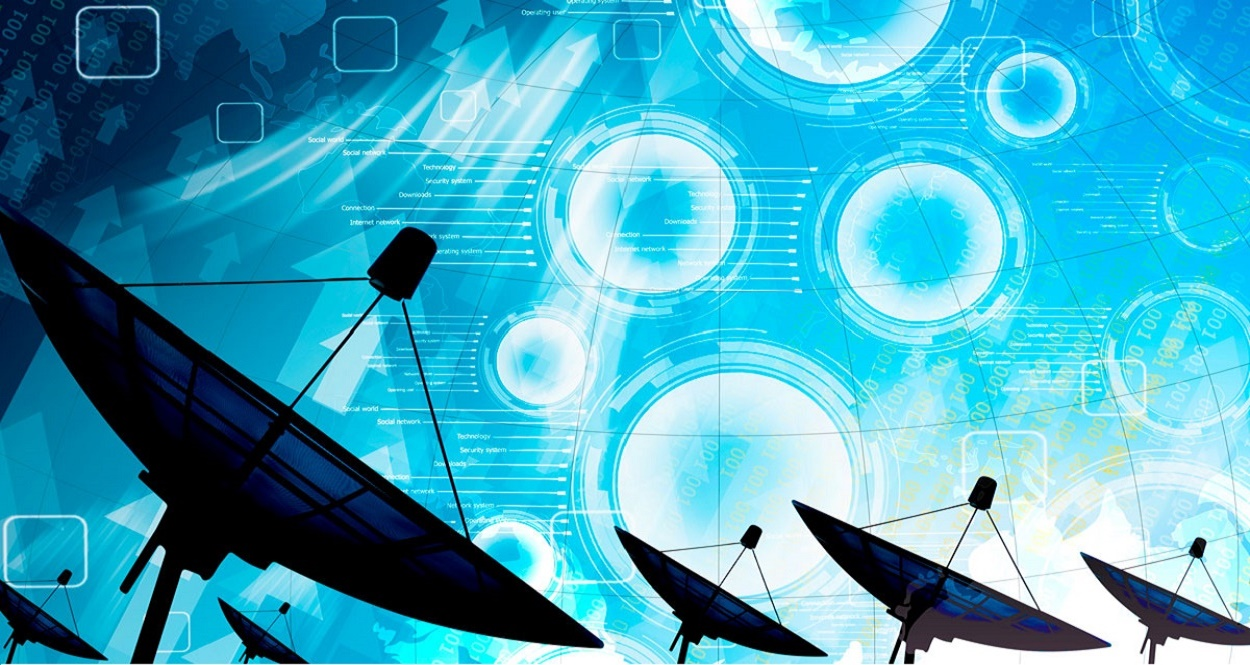
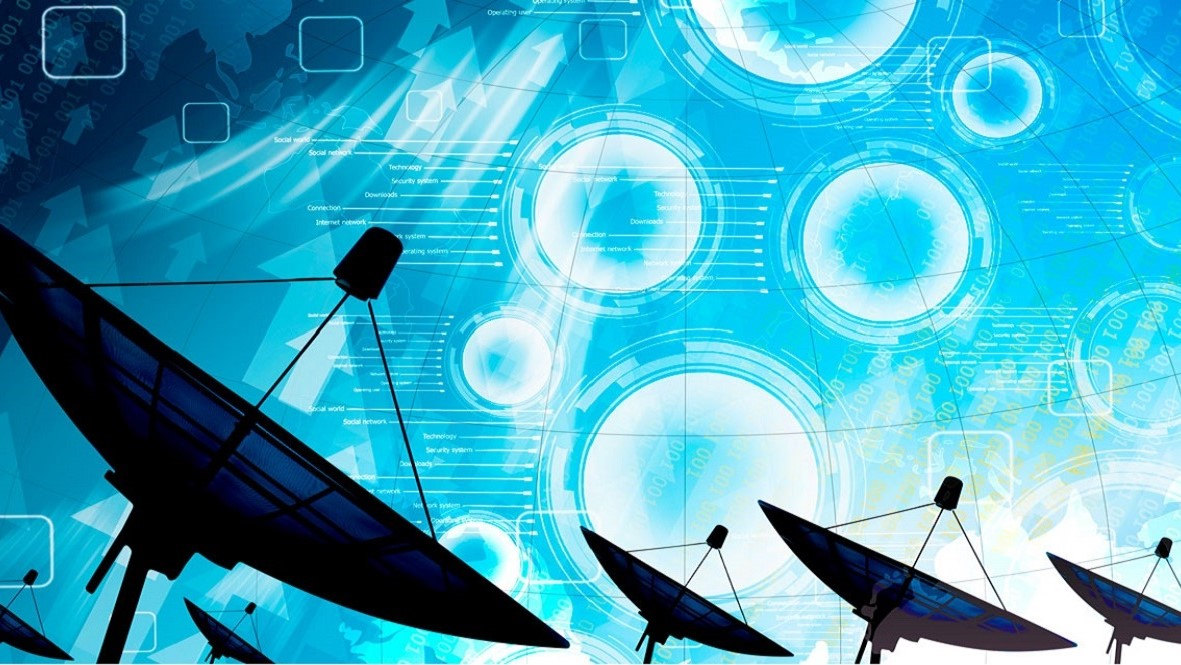
working on html, css

diff --git a/index.html b/index.html
@@ -1,26 +1,26 @@
-<?php
-    include_once "db_login.php"; 
+ <!-- ?php
+    // include_once "db_login.php"; 
 
-    if (!$con)   /*  check if the connection was actually successful  */
-    {
-        exit("Could not connect to the database: <br/>" . 
-            htmlspecialchars(mysql_error()) );
-    }
-    else{
-		echo "connected";
-	}
+    // if (!$con)   /*  check if the connection was actually successful  */
+    // {
+    //     exit("Could not connect to the database: <br/>" . 
+    //         htmlspecialchars(mysql_error()) );
+    // }
+    // else{
+	// 	echo "connected";
+	// }
 
- ?>
+?> // -->
 <!DOCTYPE html>
 <html>
 <head>
   <title>Cloud9/homepage</title>
-  <link rel="Stylesheet" href="css\style.css">
+  <link rel="Stylesheet" href="css/style.css">
   <link href="https://fonts.googleapis.com/css?family=Cinzel+Decorative:700|Cinzel:700|Oswald" rel="stylesheet">
   <link href="https://fonts.googleapis.com/css?family=Crimson+Text|Fira+Sans|PT+Sans+Narrow|Roboto+Condensed" rel="stylesheet">
   <meta name="viewport" content="width=device-width, initial-scale=1">
   <link href="https://fonts.googleapis.com/css?family=Pragati+Narrow" rel="stylesheet">
-  <meta charset=="utf-8">
+  <meta charset="utf-8">
   <script src='https://code.jquery.com/jquery-1.12.0.min.js'></script>
   <script src="https://code.jquery.com/ui/1.12.1/jquery-ui.min.js" integrity="sha256-VazP97ZCwtekAsvgPBSUwPFKdrwD3unUfSGVYrahUqU="crossorigin="anonymous"></script>
   <script src="js/jquery.fullpage.js"></script>
@@ -30,18 +30,17 @@
 	<div id='fullpage'>
 		<div class="slideshow-container">
 			<div class="mySlides fade" id="image1">
-		    	<img class='SlideImage'  src="css/images/telecom6.jpg">
+				<img class='SlideImage'  src="css/images/telecom6.jpg" style="width:100%; height:100%">
 		    </div>
 		    <div class="mySlides fade" id="image2">
-		    	<img class='SlideImage'  src="css/images/telecom21.jpg">
+		    	<img class='SlideImage'  src="css/images/telecom21.jpg" style="width:100%; height:100%">
 		  	</div>
 		  	<div class="mySlides fade" id="image3">
-		    	<img class='SlideImage'  src="css/images/telecom4.jpg">
+		    	<img class='SlideImage'  src="css/images/telecom4.jpg" style="width:100%; height:100%">
 		    </div>
 		</div>
 		<div class="main">
-			<!-- <div class="header"></div> -->
-			<div id="login"><a href="login.php" id="login1">Login</a></div>
+			<div id="login"><a href="" id="login1">Login</a></div>
 			<div class="logoContainer"></div>
 			<div class="heading">CLOUD 9</div>
 			<div class="subHeading">BEST IN THE BUSINESS</div>
@@ -92,7 +91,7 @@
 			    </div>
 			</div>
 
-			<div class="content" id="content"> 
+			<div class="content" id="content1"> 
 		  		<div id="content_home">  
 
 		    		<h3>Cloud 9</h3>
@@ -101,11 +100,14 @@
 			</div>
 
 			<div class="content" id="content_ceo">
-				<div id="ceo_pic"></div>
-				<div id="ceo_description">
+				<div class="ceo_des" id="des1" ></div>
+				<div class="ceo_des" id="des2"></div>
+				<div class="ceo_des" id="des3"></div>
+				
+				<!-- <div id="ceo_description">
 					<h5>CEO/PRESIDENT'S PROFILE</h5>
 					<p>Diversified Experience over 28 years in Army with different Capacity of various level of Administration and Human Resource Management, Operations and Business Development Management as Strategy Planner, Policy maker & Policy Implementation Monitor. Graduated from Bangladesh Military Academy in 1985 and was commissioned in Bangladesh Army as lieutenant in the Core of Signals. Later on conceived 12 month basic training from the Schools of Signals on Modern Communication. Attained various courses and training pertaining to the administration, operation and logistic with practical exercises. With the inclusion of Computer in Bangladesh Army upgraded himself with the computer course in Bangladesh Army. Participated in the various National Crisis and Management with different capacities and received distinguished appreciations both from Civil and military authorities. Served in Bangladesh Rifles from 1991 to 1994 Experienced the Risk Management, Financial Management, Security Management, Management of local Government issues and Trans Border Issues. Attained the meetings with the local counter parts with various cross border issues which demanded Rapid Decision and Quick Management. Later served in Bangladesh Rifles from 2005 to 2007 as Technical Maintenance Officer, where he was responsible for Repair, maintenance and procurement of all equipment related to communication and communication security. He attended no of seminars in home and abroad in National level. He was one of the pioneer member of National Frequency Spectrum Committee. Also participated in the mission abroad with prestigious appointment in multinational environment. Received commendations from various levels of commanders. Served in United Nation twice as a communication experts in Sector and Force Headquarter level and earned a commendable name for himself and the country. Highly capable of adjusting himself with the situation. Also served in Military Institute of Science and Technology (MIST) (A prestigious Military Educational Organization in Mirpur Educational village of Military) as a Researcher.</p>
-				</div>
+				</div> -->
 			</div>
 		</div>
 	</div>

diff --git a/css/style.css b/css/style.css
@@ -12,32 +12,32 @@ html, body {
 img {vertical-align: middle;}*/
 
 #fullpage{
-	width:100vw;
-	height: 100vh;
+	width:100%;
+	height: 100%;
 	position: relative;
 	display: inline-block;
-	border: 1px solid black;
-	overflow-x: hidden;
-	/*overflow-x: hidden;
-	overflow-y: scroll*/
+    border: 1px solid black;
+    
 }
+
 /* Slideshow container */
+
 .slideshow-container {
-	width: 100vw;
-	height: 100vh;
-	/*overflow: hidden;*/
+	width: 100%;
+	height: 100%;
+	overflow: hidden;
 	position: fixed;
 	top:0%;
 	left:0%;
 	margin: 0;
 	display: inline-block;
 	z-index: 80;
-	float:left;
+	float: left;
 }
 
 .SlideImage {
-	width: 100vw;
-	height: 100vh;
+	width: 100%;
+	height: 100%;
 	display: inline-block;
 	position: fixed;
 	top: 0%;
@@ -47,6 +47,8 @@ img {vertical-align: middle;}*/
 
 /* Hide the images by default */
 .mySlides {
+    width: 100%;
+	height: 100%;
     display: none;
     z-index: 85;
 }
@@ -101,7 +103,7 @@ img {vertical-align: middle;}*/
   display: inline-block;
   /*transition: background-color 0.6s ease;*/
   bottom:0;
-  float:left;
+  float: left;
 }
 
 /*.active, .dot:hover {
@@ -169,11 +171,12 @@ a:visited, a:link, a:active{
 
 
 .main{
-	top:0;
-	bottom:0;
-	width: 100vw;
-	position: relative;
-	z-index: 100;
+	top: 0;
+    bottom: 0;
+    width: 100%;
+    height: 100%;
+    position: relative;
+    z-index: 100;
 }
 
 .logoContainer{
@@ -194,8 +197,8 @@ a:visited, a:link, a:active{
 }
 
 .heading {
-    left: 47.5vw;
-    top: 44vh;
+    left: 49%;
+    top: 45%;
     width: 24vw;
     height: 12vh;
     position: relative;
@@ -209,8 +212,8 @@ a:visited, a:link, a:active{
 }
 
 .subHeading{
-    left: 33vw;
-    top: 50vh;
+    left: 33%;
+    top: 51%;
     height: 6vh;
     width: 26vw;
     position: relative;
@@ -225,12 +228,12 @@ a:visited, a:link, a:active{
   }
 
 .navbarContainer2{
-	width: 43vw;
-    height: 40vh;
+	width: 43%;
+    height: 43%;
     display: inline-block;
-    top: 16vh;
+    top: 18%;
     /* top: 9vh; */
-    left: 2vw;
+    left: 4%;
     /* border: 1px solid black; */
     position: relative;
 }
@@ -258,6 +261,7 @@ path {
  	z-index: 106;
  	/*background-color: black;*/
 }
+
 path:hover, .navbar2:hover {
 	cursor: pointer;
 	fill: #6292dad4;
@@ -315,13 +319,17 @@ path:hover, .navbar2:hover {
 
 }
 .content {
-    width: 100vw;
-    height: 80vh;
-    top: 47.5vh;
+    width: 100%;
+    height: 100%;
+    top: 48%;;
     position: relative;
     z-index: 102;
     display: inline-block;
     background-color: #fdfcfc;
+}
+
+#content1{
+    height:76%;
 }
 
 #content_home{
@@ -344,14 +352,21 @@ path:hover, .navbar2:hover {
 	height:100vh;
 }
 
-#ceo_pic{
+.ceo_des{
 	border: 1px solid black;
-    top: 14vh;
-    left: 4vw;
-    height: 65vh;
-    width: 29vw;
+    top: 10%;
+    left: 3%;
+    height: 80%;
+    width: 30%;
     display: inline-block;
     position: relative;
+
+#des1{
+    float: left;
+}
+
+#des3{
+    float: right;
 }
 
 #ceo_description{
